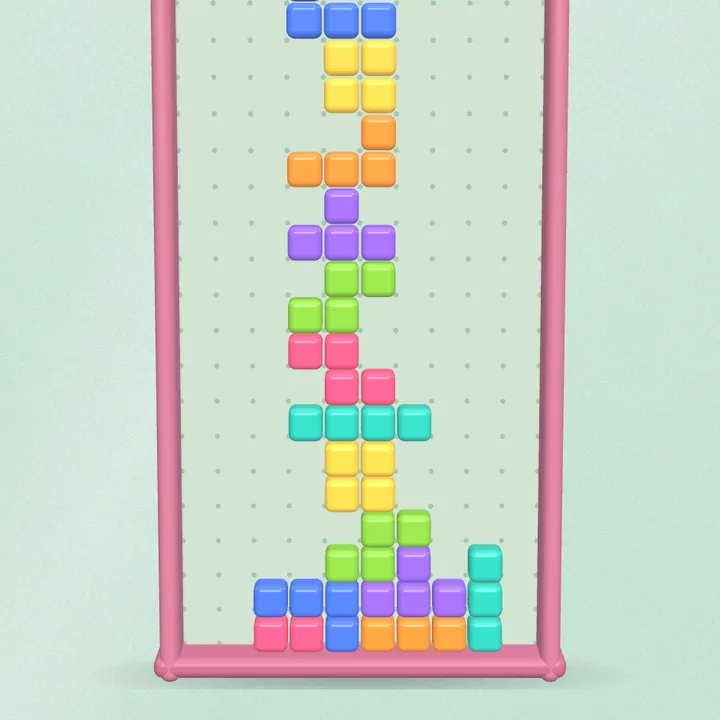
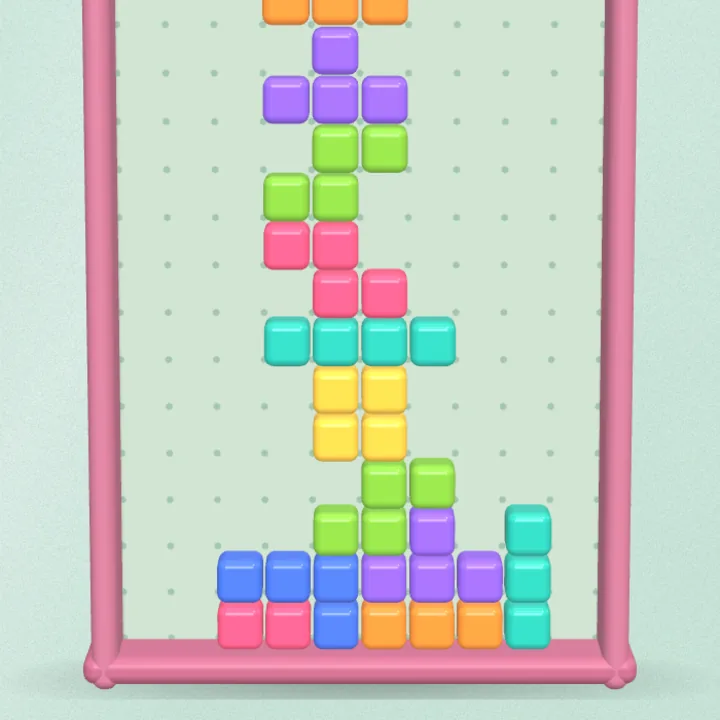
fix: the home shelf ignores a carried-over Enter, keeps its light on back, and answers a shut game
From a second design critique of the home (27 of 40):

- Enter with nothing focused opens the lit tile only after a key is let
  go on the page, never a held or repeated Enter from the kid picker.
- The shelf opens at its start, and only her own swipe moves the light,
  so back and reload keep the last-played tile lit.
- Pressing a shut game shakes it once and lights it, so the line under
  the shelf offers the way to practice; shut tiles are aria-disabled and
  show only their lock on a phone.
- With focus on a round button, the lit ring steps back so one ring is
  bright; arrows there don't pull focus to the shelf.
- No law colours outside rounds: the Spelling tile drops its marigold
  mark and the top-bar star is silver.
- Bigger tiles on laptop and upright iPad, the lit name sized from the
  tile, the Jelly Blocks tile recropped to its stack, and a sign-in
  headline that isn't gendered.

diff --git a/apps/web/src/routes/_authed/play/$childId/index.tsx b/apps/web/src/routes/_authed/play/$childId/index.tsx
@@ -278,7 +278,7 @@ function Home() {
 							? `${newest.name}: ${played.mastered} of ${newest.wordCount} mastered.`
 							: `${newest.name}: ${newest.wordCount} new ${newest.wordCount === 1 ? "word" : "words"}.`
 						: "Hear the word, then spell it, like a real bee.",
-			art: <SubjectArt hue="spell" tiles={["r", "h", "y", "t", "h", "m"]} right={2} />,
+			art: <SubjectArt hue="spell" tiles={["r", "h", "y", "t", "h", "m"]} />,
 			// What's waiting: words due again, else this week's words she hasn't started.
 			// The bar speaks for a waiting round, so the count only shows when there isn't one.
 			count: spellingLeft ? undefined : spellingDue || (newest && !played ? newest.wordCount : undefined),
@@ -300,7 +300,7 @@ function Home() {
 				: factsDue > 0
 					? `${factsDue} ${factsDue === 1 ? "fact wants" : "facts want"} another go.`
 					: "Times tables, mental math, fractions and story problems.",
-			art: <SubjectArt hue="math" tiles={["7", "×", "8"]} right={-1} answer />,
+			art: <SubjectArt hue="math" tiles={["7", "×", "8"]} answer />,
 			count: mathLeft ? undefined : factsDue || undefined,
 			progress: mathLeft ? mathLeft.done / mathLeft.total : undefined,
 			go: mathLeft
@@ -343,6 +343,7 @@ function Home() {
 		};
 	});
 	// A kid whose games are shut starts lit on the first thing she can open.
+	const [nudged, setNudged] = useState<number | null>(null);
 	const [lit, setLit] = useState(() =>
 		Math.max(
 			0,
@@ -356,7 +357,13 @@ function Home() {
 		const root = shelfRef.current;
 		if (!root) return;
 		let timer = 0;
+		// Only a scroll she makes moves the light; a scroll position the browser restores on back or reload doesn't.
+		let touched = false;
+		const touch = () => {
+			touched = true;
+		};
 		const settle = () => {
+			if (!touched) return;
 			const box = root.getBoundingClientRect();
 			const r = buttons.current[lit]?.getBoundingClientRect();
 			if (r && r.left >= box.left - 1 && r.right <= box.right + 1) return;
@@ -374,8 +381,10 @@ function Home() {
 			timer = window.setTimeout(settle, 140);
 		};
 		root.addEventListener("scroll", onScroll, { passive: true });
+		for (const type of ["pointerdown", "touchstart", "wheel"]) root.addEventListener(type, touch, { passive: true });
 		return () => {
 			root.removeEventListener("scroll", onScroll);
+			for (const type of ["pointerdown", "touchstart", "wheel"]) root.removeEventListener(type, touch);
 			window.clearTimeout(timer);
 		};
 	}, [lit]);
@@ -391,13 +400,28 @@ function Home() {
 		el?.scrollIntoView({ behavior: reduce ? "auto" : "smooth", inline: "center", block: "nearest" });
 	}
 
-	// The lit tile starts in view, ring and all, even when it isn't first (a shut Play lights Spelling).
+	// The shelf opens at its start with the lit tile in view, ring and all (a shut Play lights Spelling), whatever scroll
+	// position the browser kept from before.
 	useEffect(() => {
+		if (shelfRef.current) shelfRef.current.scrollLeft = 0;
 		if (lit > 0) buttons.current[lit]?.scrollIntoView({ behavior: "instant", inline: "center", block: "nearest" });
 	}, []);
 
 	// Arrows, Home and End move the light along the shelf from anywhere on the page, unless a field, a list or a sheet
 	// has the keys. Enter or Space on the lit tile opens it, as a press does.
+	// A key let go on this page arms Enter, so the Enter that picked her on "Who's playing?" can't also start a game.
+	const armed = useRef(false);
+	useEffect(() => {
+		const arm = () => {
+			armed.current = true;
+		};
+		window.addEventListener("keyup", arm);
+		window.addEventListener("pointerdown", arm);
+		return () => {
+			window.removeEventListener("keyup", arm);
+			window.removeEventListener("pointerdown", arm);
+		};
+	}, []);
 	useEffect(() => {
 		function onKey(e: KeyboardEvent) {
 			if (e.altKey || e.ctrlKey || e.metaKey || document.querySelector("dialog[open]")) return;
@@ -405,11 +429,14 @@ function Home() {
 			if (t?.closest("input, textarea, select, [contenteditable], [role=slider], [role=listbox], [role=menu], [role=tablist]")) return;
 			// Enter with nothing focused opens the lit tile, as the hint says.
 			if (e.key === "Enter" && (t === document.body || t === null)) {
+				if (e.repeat || !armed.current) return;
 				e.preventDefault();
 				if (current.go) current.go();
 				else light(lit);
 				return;
 			}
+			// The round buttons under the shelf are their own row: arrows there don't pull focus back up.
+			if (t?.closest(".home-action")) return;
 			const to =
 				e.key === "Home" ? 0 : e.key === "End" ? shelf.length - 1 : e.key === "ArrowRight" ? lit + 1 : e.key === "ArrowLeft" ? lit - 1 : -1;
 			if (to < 0 || to >= shelf.length) return;
@@ -444,7 +471,7 @@ function Home() {
 				<dl className="flex shrink-0 items-center gap-5 font-display md:gap-7">
 					<div className="flex items-center gap-2">
 						<dt>
-							<Star className="size-6 fill-current text-marigold" aria-hidden />
+							<Star className="size-6 fill-[#d9dee8] text-[#8e97a8]" aria-hidden />
 							<span className="sr-only">Stars</span>
 						</dt>
 						<dd className={`text-2xl font-semibold tabular-nums md:text-3xl ${stars ? "" : "text-page-muted"}`}>{stars}</dd>
@@ -480,6 +507,9 @@ function Home() {
 								className="shelf-tile"
 								data-lit={i === lit || undefined}
 								data-locked={t.locked || undefined}
+								data-nudge={nudged === i || undefined}
+								aria-disabled={t.locked || undefined}
+								onAnimationEnd={() => setNudged(null)}
 								tabIndex={i === lit ? 0 : -1}
 								aria-label={`${t.name}${t.count ? `, ${t.count} waiting` : ""}${t.locked ? ", opens after practice" : ""}`}
 								aria-describedby={t.locked ? "shelf-shut" : "shelf-line"}
@@ -490,7 +520,13 @@ function Home() {
 									setLit(i);
 									buttons.current[i]?.focus({ preventScroll: true });
 								}}
-								onClick={() => (t.go ? t.go() : light(i))}
+								onClick={() => {
+									if (t.go) return t.go();
+									// A shut game answers the press: it shakes, takes the light, and the line under the shelf offers the
+									// way to practice.
+									light(i);
+									setNudged(i);
+								}}
 							>
 								{t.art}
 								{t.count ? (
@@ -505,7 +541,8 @@ function Home() {
 								)}
 								{t.locked && (
 									<span className="shelf-lock" aria-hidden>
-										<Lock className="size-4" /> {play?.shut ? "After practice" : "Out of time"}
+										<Lock className="size-4" />
+										<span className="max-sm:sr-only">{play?.shut ? "After practice" : "Out of time"}</span>
 									</span>
 								)}
 							</button>

diff --git a/packages/ui/src/styles/index.css b/packages/ui/src/styles/index.css
@@ -631,7 +631,7 @@
 	 * above it. The row scrolls sideways and snaps; it's padded so the ring, the name and the lift never clip.
 	 */
 	.shelf {
-		--tile: clamp(10rem, min(40dvh, 34vw), 22rem);
+		--tile: clamp(10rem, min(44dvh, 34vw), 24rem);
 		--gutter: max(1.25rem, var(--safe-left));
 		display: flex;
 		gap: clamp(0.9rem, 1.6vw, 1.5rem);
@@ -647,7 +647,7 @@
 	/* A phone: tiles take most of the width, so the next one peeks in from the edge. */
 	@media (max-width: 40rem) { .shelf { --tile: min(62vw, 38dvh); } }
 	/* A tablet held upright: tall and narrow, so the tiles grow to fill the height the row would leave empty. */
-	@media (orientation: portrait) and (min-width: 40rem) { .shelf { --tile: min(68vw, 46dvh); } }
+	@media (orientation: portrait) and (min-width: 40rem) { .shelf { --tile: min(72vw, 50dvh); } }
 	.shelf-slot {
 		position: relative;
 		flex: none;
@@ -657,9 +657,10 @@
 	.shelf-name {
 		position: absolute;
 		left: 0.15rem;
-		bottom: calc(100% + 1rem);
+		bottom: calc(100% + 1.2rem);
 		font-family: var(--font-display);
-		font-size: clamp(1.4rem, 2.2vw, 2.1rem);
+		/* Sized from the tile, so a big upright-iPad tile gets a name to match. */
+		font-size: clamp(1.3rem, calc(var(--tile) * 0.085), 2.6rem);
 		font-weight: 600;
 		line-height: 1;
 		white-space: nowrap;
@@ -711,9 +712,14 @@
 	}
 	.shelf-tile:focus-visible { outline-color: var(--color-select); border-radius: 1.4rem; }
 	.shelf-tile:active { transform: scale(0.98); }
+	/* A shut game shakes once when pressed: it heard her, and the line under the shelf says why. */
+	.shelf-tile[data-nudge] { animation: tile-nudge 360ms var(--ease-out-expo); }
+	/* With focus on a button below, the lit tile keeps its place but its ring steps back, so only one ring is bright. */
+	main:has(.home-action:focus-visible) .shelf-tile[data-lit] { outline-color: color-mix(in oklab, var(--color-select) 35%, transparent); }
 	@media (prefers-reduced-motion: reduce) {
 		.shelf-tile, .shelf-name { transition: none; }
 		.shelf-tile[data-lit] { transform: none; }
+		.shelf-tile[data-nudge] { animation: none; }
 	}
 	/* A game while Play is shut: its art greyed and a lock on it, never hidden. */
 	.shelf-tile[data-locked] > img,

diff --git a/apps/web/e2e/signout.spec.ts b/apps/web/e2e/signout.spec.ts
@@ -53,7 +53,7 @@ test("signing out forgets the family on this device", async ({ page }) => {
 	});
 	expect(await page.evaluate(() => localStorage.getItem("jade.user"))).not.toBeNull();
 	await page.getByRole("button", { name: "Sign out" }).click();
-	await expect(page.getByRole("heading", { name: "Every game she loves, plus spelling and math, on one shelf." })).toBeVisible();
+	await expect(page.getByRole("heading", { name: "Every game your kid loves, plus spelling and math, on one shelf." })).toBeVisible();
 	const left = await page.evaluate(async () => ({ user: localStorage.getItem("jade.user"), caches: await caches.keys() }));
 	expect(left.user).toBeNull();
 	expect(left.caches).not.toContain("jade-data");
@@ -72,7 +72,7 @@ test("unsaved practice: a 401 keeps it queued, sign-out warns, and it uploads on
 	// The server accepts writes again: signing out uploads the practice first, then signs out.
 	await page.unroute("**/api/sessions**");
 	await page.getByRole("button", { name: "Sign out" }).click();
-	await expect(page.getByRole("heading", { name: "Every game she loves, plus spelling and math, on one shelf." })).toBeVisible();
+	await expect(page.getByRole("heading", { name: "Every game your kid loves, plus spelling and math, on one shelf." })).toBeVisible();
 	expect(await queued(page)).toBe(0);
 
 	// The word really reached the server.
@@ -86,6 +86,6 @@ test("unsaved practice: 'Sign out anyway' discards it", async ({ page }) => {
 	await page.goto("/parent/settings");
 	await page.getByRole("button", { name: "Sign out" }).click();
 	await page.getByRole("button", { name: "Sign out anyway" }).click();
-	await expect(page.getByRole("heading", { name: "Every game she loves, plus spelling and math, on one shelf." })).toBeVisible();
+	await expect(page.getByRole("heading", { name: "Every game your kid loves, plus spelling and math, on one shelf." })).toBeVisible();
 	expect(await queued(page)).toBe(0);
 });

diff --git a/apps/web/src/routes/index.tsx b/apps/web/src/routes/index.tsx
@@ -54,9 +54,9 @@ function DemoRow() {
 /** The home shelf as a kid sees it, lit on a game: real art from each game, one tile with words waiting. */
 const DEMO: { name: string; art: React.ReactNode; count?: number }[] = [
 	{ name: "Gobble Town", art: <img src="/tiles/gobble.webp" alt="" className="absolute inset-0 size-full object-cover" /> },
-	{ name: "Spelling", art: <SubjectArt hue="spell" tiles={["r", "h", "y", "t", "h", "m"]} right={2} />, count: 6 },
+	{ name: "Spelling", art: <SubjectArt hue="spell" tiles={["r", "h", "y", "t", "h", "m"]} />, count: 6 },
 	{ name: "Jelly Blocks", art: <img src="/tiles/jelly.webp" alt="" className="absolute inset-0 size-full object-cover" /> },
-	{ name: "Math", art: <SubjectArt hue="math" tiles={["7", "×", "8"]} right={-1} answer /> },
+	{ name: "Math", art: <SubjectArt hue="math" tiles={["7", "×", "8"]} answer /> },
 ];
 
 /** Ends on whole tiles: four across the column (three on a phone), each a quarter of it, the first one lit. */
@@ -121,11 +121,11 @@ function Landing() {
 					</button>
 				</div>
 				<h1 className="text-5xl leading-[1.05] font-semibold text-balance md:text-6xl">
-					Every game she loves, plus spelling and math, on one shelf.
+					Every game your kid loves, plus spelling and math, on one shelf.
 				</h1>
 				<p className="max-w-[48ch] text-lg text-pretty text-page-muted">
 					A games portal for 8–11 year olds with practice built in. Roxy, her town, Gobble Town, Jelly Blocks and Campfire Woods sit beside
-					Spelling and Math, the one she played last first, and you decide how play and practice meet.
+					Spelling and Math, the one they played last first, and you decide how play and practice meet.
 				</p>
 				<DemoShelf />
 			</section>

diff --git a/apps/web/src/components/SubjectArt.tsx b/apps/web/src/components/SubjectArt.tsx
@@ -1,10 +1,10 @@
 import { Tile } from "@jade/ui/components/tile";
 
 /**
- * Spelling's and Math's art: the round's own maple tiles, big, on the subject's hue. Spelling spells a word with one
- * tile checked right (marigold), Math sets a fact beside an empty answer square.
+ * Spelling's and Math's art: a picture of a round, its maple tiles big on the subject's hue. No law colour: nothing has
+ * been checked, so nothing is marked right or wrong outside a round.
  */
-export function SubjectArt({ hue, tiles, right, answer }: { hue: "spell" | "math"; tiles: string[]; right: number; answer?: boolean }) {
+export function SubjectArt({ hue, tiles, answer }: { hue: "spell" | "math"; tiles: string[]; answer?: boolean }) {
 	// Sized from the shelf's tile, so the art scales with it.
 	const k = hue === "spell" ? 0.125 : 0.2;
 	const box = { width: `calc(var(--tile) * ${k})`, height: `calc(var(--tile) * ${k})`, fontSize: `calc(var(--tile) * ${k * 0.56})` };
@@ -17,7 +17,7 @@ export function SubjectArt({ hue, tiles, right, answer }: { hue: "spell" | "math
 							×
 						</span>
 					) : (
-						<Tile key={`${c}-${i}`} letter={c} law={i === right ? "right" : undefined} grain={i % 4} style={box} />
+						<Tile key={`${c}-${i}`} letter={c} grain={i % 4} style={box} />
 					),
 				)}
 				{answer && <span className="rounded-[18%] bg-black/25 shadow-[inset_0_0.2em_0.4em_rgb(0_0_0/0.35)]" style={box} />}

diff --git a/apps/web/e2e/pin.spec.ts b/apps/web/e2e/pin.spec.ts
@@ -51,7 +51,7 @@ test("signing out and back in on the same tab asks for the PIN again", async ({ 
 	await page.goto("/parent/settings");
 	await enterPin(page);
 	await page.getByRole("button", { name: "Sign out" }).click();
-	await expect(page.getByRole("heading", { name: "Every game she loves, plus spelling and math, on one shelf." })).toBeVisible();
+	await expect(page.getByRole("heading", { name: "Every game your kid loves, plus spelling and math, on one shelf." })).toBeVisible();
 	await page.request.post("/api/auth/sign-in/email", { headers: h, data: { email, password: PASSWORD } });
 	await page.goto("/parent/settings");
 	await expect(gate(page)).toBeVisible();
@@ -122,7 +122,7 @@ test("the gate can sign out, so a family is never stuck on it", async ({ page })
 	await page.goto("/parent");
 	await expect(gate(page)).toBeVisible();
 	await page.getByRole("button", { name: "Sign out" }).click();
-	await expect(page.getByRole("heading", { name: "Every game she loves, plus spelling and math, on one shelf." })).toBeVisible();
+	await expect(page.getByRole("heading", { name: "Every game your kid loves, plus spelling and math, on one shelf." })).toBeVisible();
 });
 
 test("a new PIN has to be typed twice", async ({ page }) => {

diff --git a/apps/web/e2e/bee.spec.ts b/apps/web/e2e/bee.spec.ts
@@ -10,7 +10,7 @@ test("parent sets up a list, speller plays a Bee round and sees missed words", a
 
 	// Parent signs up.
 	await page.goto("/");
-	await expect(page.getByRole("heading", { name: "Every game she loves, plus spelling and math, on one shelf." })).toBeVisible();
+	await expect(page.getByRole("heading", { name: "Every game your kid loves, plus spelling and math, on one shelf." })).toBeVisible();
 	await page.screenshot({ path: `test-results/${info.project.name}-landing.png` });
 	await page.getByLabel("Your name").fill("Test Parent");
 	await page.getByLabel("Email").fill(email);

diff --git a/apps/web/e2e/helpers.ts b/apps/web/e2e/helpers.ts
@@ -57,7 +57,7 @@ export async function stubWords(page: Page) {
  */
 export async function openLanding(page: Page) {
 	await page.goto("/");
-	await page.getByRole("heading", { name: "Every game she loves, plus spelling and math, on one shelf." }).waitFor();
+	await page.getByRole("heading", { name: "Every game your kid loves, plus spelling and math, on one shelf." }).waitFor();
 }
 
 /** A tile on the home shelf, by its name ("Roxy" doesn't match "Roxy’s town"). */

diff --git a/DESIGN.md b/DESIGN.md
@@ -58,7 +58,7 @@ typography:
     letterSpacing: "-0.01em"
   shelf-name:
     fontFamily: "Fredoka Variable, Fredoka, ui-rounded, system-ui, sans-serif"
-    fontSize: "clamp(1.4rem, 2.2vw, 2.1rem)"
+    fontSize: "clamp(1.3rem, calc(var(--tile) * 0.085), 2.6rem) (sized from the tile)"
     fontWeight: 600
     lineHeight: 1
   title:
@@ -117,9 +117,9 @@ rounded:
   sheet: "1.75rem"
   pill: "9999px"
 spacing:
-  shelf-tile: "clamp(10rem, min(40dvh, 34vw), 22rem)"
+  shelf-tile: "clamp(10rem, min(44dvh, 34vw), 24rem)"
   shelf-tile-phone: "min(62vw, 38dvh)"
-  shelf-tile-portrait: "min(68vw, 46dvh)"
+  shelf-tile-portrait: "min(72vw, 50dvh)"
   shelf-gap: "clamp(0.9rem, 1.6vw, 1.5rem)"
   shelf-gutter: "max(1.25rem, safe inset); max(3rem, safe inset) from md"
   shelf-head: "3.75rem"
@@ -343,7 +343,7 @@ Night values are the unsuffixed keys and the CSS default. The Day values (`-day`
 **Character:** Fredoka gives names, numerals and keys a round, toy-solid voice that reads as a game, not a worksheet. Lexend is the calm voice for the one line under the shelf, sheet copy and parent screens.
 
 ### Hierarchy
-- **Display** (600, 3rem to 3.75rem at md, line-height 1.05): the sign-in headline, "Every game she loves, plus spelling and math, on one shelf."
+- **Display** (600, 3rem to 3.75rem at md, line-height 1.05): the sign-in headline, "Every game your kid loves, plus spelling and math, on one shelf."
 - **Headline** (600, 2.25rem to 3rem at md): "Who's playing?" and section heads on inner screens.
 - **Shelf name** (600, clamp 1.4rem to 2.1rem, line-height 1, one line): the lit tile's name, 1rem above its top-left corner, in select blue. Only the lit name shows.
 - **Title** (600, 1.5rem): the kid's name in the home's top bar, sheet titles ("Your badges · 3 of 12", "Today's quests"), and "The games", "Spelling" and "Math" on the sign-in page.
@@ -363,8 +363,8 @@ Night values are the unsuffixed keys and the CSS default. The Day values (`-day`
 ## Layout
 
 **The home (`/play/$childId`).** A three-row grid filling `100dvh`. Inline padding is 1.25rem, rising to 3rem from md, with `py-safe-5` (`py-safe-7` from md).
-- **Top bar:** her kid sticker (48px) and name on the left; stars and, unless games are Free, tickets on the right as big numerals beside a lucide Star and Ticket.
-- **Middle, the shelf:** one row of square tiles, vertically centred. A tile is `clamp(10rem, min(40dvh, 34vw), 22rem)` on a laptop, `min(62vw, 38dvh)` on a phone (so the next tile peeks in from the edge), and `min(68vw, 46dvh)` on an upright tablet. The gap is `clamp(0.9rem, 1.6vw, 1.5rem)`. The row scrolls sideways with mandatory snap and no scrollbar. It is padded 3.75rem above (room for the name) and 1.25rem below, with a gutter that grows from md and respects the safe inset, so the ring, the name and the lift never clip. Under it, in a 5rem-tall slot, sit the lit tile's line and stat (a game's best score or finds; a waiting round says "Finish …: 2 of 5 done" and its tile drops the count, leaving the bar). While games are shut, a line under it always says what opens them ("Games open after practice" with a star strip), and when a shut game is lit it adds one go key to the first subject on the shelf. Hover and keyboard share one light (hovering a tile focuses it); a swipe that leaves the lit tile off-screen hands the light to the tile at the shelf's start; Enter with nothing focused opens the lit tile.
+- **Top bar:** her kid sticker (48px) and name on the left; stars and, unless games are Free, tickets on the right as big numerals beside a silver lucide Star (never marigold, which means right) and a berry Ticket.
+- **Middle, the shelf:** one row of square tiles, vertically centred. A tile is `clamp(10rem, min(44dvh, 34vw), 24rem)` on a laptop, `min(62vw, 38dvh)` on a phone (so the next tile peeks in from the edge), and `min(72vw, 50dvh)` on an upright tablet. The gap is `clamp(0.9rem, 1.6vw, 1.5rem)`. The row scrolls sideways with mandatory snap and no scrollbar. It is padded 3.75rem above (room for the name) and 1.25rem below, with a gutter that grows from md and respects the safe inset, so the ring, the name and the lift never clip. Under it, in a 5rem-tall slot, sit the lit tile's line and stat (a game's best score or finds; a waiting round says "Finish …: 2 of 5 done" and its tile drops the count, leaving the bar). While games are shut, a line under it always says what opens them ("Games open after practice" with a star strip), and when a shut game is lit it adds one go key to the first subject on the shelf. Hover and keyboard share one light (hovering a tile focuses it); a swipe that leaves the lit tile off-screen hands the light to the tile at the shelf's start; Enter with nothing focused opens the lit tile, but only once a key has been let go on the page (never a held or repeated Enter carried over from "Who's playing?"). Arrows on the round buttons don't pull focus back to the shelf, and while a round button has focus the lit tile's ring steps back to 35%, so only one ring is bright. Pressing a shut game shakes it once (`tile-nudge`) and lights it, so the line under the shelf offers the way to practice; shut tiles are `aria-disabled`, and on a phone their lock shows the icon alone. The shelf always opens at its start, so a restored scroll position never moves the light.
 - **Footer:** the round action buttons on the left (1.25rem apart, 1.75rem from md). On the right, keyboard hints ("← → choose · Enter play" in `.kbd` keys, only from lg with a fine pointer) and the wordmark at 18px.
 
 **Shelf order.** Most recently pressed first, saved per kid on the device (`jade.shelf.{childId}`). A new kid starts Roxy, Gobble Town, Jelly Blocks, Spelling, Campfire Woods, Math, Roxy's town. A round waiting to be finished leads the shelf (the newer of the two), and it is lit on arrival. While Play is shut, the light starts on the first tile she can open.
@@ -415,7 +415,7 @@ Tilt survives only on earned stickers: badge stickers cycle through -5, 4, -3, 6
 
 ### Shelf tile (the signature)
 A glossy rounded square filled edge to edge with its game's art.
-- **Art:** a game's tile is a captured WebP (`public/tiles/*.webp`, `object-fit: cover`). Roxy's tile is her live SVG look. Spelling and Math are `SubjectArt`: the round's own maple Tile components on the subject hue ("rhythm" with its y marked right in marigold on spell green; "7 × 8" beside an empty answer recess on grape), sized from `--tile`. Art is `alt=""`; the button's aria-label names the tile, its count and whether it's locked.
+- **Art:** a game's tile is a captured WebP (`public/tiles/*.webp`, `object-fit: cover`). Roxy's tile is her live SVG look. Spelling and Math are `SubjectArt`: the round's own maple Tile components on the subject hue ("rhythm" on spell green; "7 × 8" beside an empty answer recess on grape), with no law colour, since nothing outside a round has been checked, sized from `--tile`. Art is `alt=""`; the button's aria-label names the tile, its count and whether it's locked.
 - **Lit:** `data-lit` sets the ring colour to select, scales to 1.035 and deepens the drop. Keyboard focus shows the same ring.
 - **Count:** a red 2rem round in the top-right corner (0.65rem in), with a white Fredoka 650 numeral, "99+" past 99. It shows words due, else this week's unstarted words, or facts due.
 - **Progress:** a red bar 0.45rem tall along the foot (0.8rem in) over a dark 55% track, for a round waiting to be finished. It is never under 6% wide.
@@ -483,7 +483,7 @@ The scene fills the window on the `--scene-top` to `--scene-ground` sky, always 
 ## Assets and provenance
 
 Every shipping raster and its source:
-- **Game tiles** (`apps/web/public/tiles/town.webp`, `gobble.webp`, `jelly.webp`, `woods.webp`): 720×720 WebP at quality 82, captured 2026-10-18 with headless Playwright Chromium (SwiftShader WebGL) from the app's own dev server. The viewport was 1200×1200, with every DOM element but the canvas hidden. town is `/games/roxy/place/park` after 9s. gobble is `/games/gobble` with the test hooks `setSeed(7)` and `setState("late-game")`, paused. jelly is `/games/jelly` with `setSeed(3)` and `setState("late-game")`, paused. woods is `/games/woods` after Start, with `setState("dusk")`. Each was cropped and resized with ImageMagick: town 1000×1000+100+60, gobble 860×860+176+200, jelly 940×940+130+230, woods 1000×1000+100+150. No generated imagery and no third-party assets.
+- **Game tiles** (`apps/web/public/tiles/town.webp`, `gobble.webp`, `jelly.webp`, `woods.webp`): 720×720 WebP at quality 82, captured 2026-10-18 with headless Playwright Chromium (SwiftShader WebGL) from the app's own dev server. The viewport was 1200×1200, with every DOM element but the canvas hidden. town is `/games/roxy/place/park` after 9s. gobble is `/games/gobble` with the test hooks `setSeed(7)` and `setState("late-game")`, paused. jelly is `/games/jelly` with `setSeed(3)` and `setState("late-game")`, paused. woods is `/games/woods` after Start, with `setState("dusk")`. Each was cropped and resized with ImageMagick: town 1000×1000+100+60, gobble 860×860+176+200, jelly 700×700+250+450 (recropped 2026-10-19 to the stack), woods 1000×1000+100+150. No generated imagery and no third-party assets.
 - **Spelling and Math tiles:** not rasters. `SubjectArt` draws the round's own maple `Tile` components on the subject hue.
 - **Roxy's tile:** her live SVG look (`RoxyFigure`, viewBox `40 20 320 320`).
 - **Icons** (`public/favicon.svg`, `icon-192.png`, `icon-512.png`, `icon-maskable-512.png`, `apple-touch-icon.png`): authored in `apps/web/scripts/icon-mark.mjs`, a white rounded-stroke j with a white star dot on a brand-red rounded square (gradient #ee5a52 → #e5322d → #c4231f; the icon keeps the brighter red, where the white j is far past any contrast floor), turned -6deg. They are rendered by `scripts/icons.sh` with rsvg-convert. The favicon draws a larger star, the maskable icon keeps the mark inside the 80% circle, and the touch icon is full bleed on brand red.
